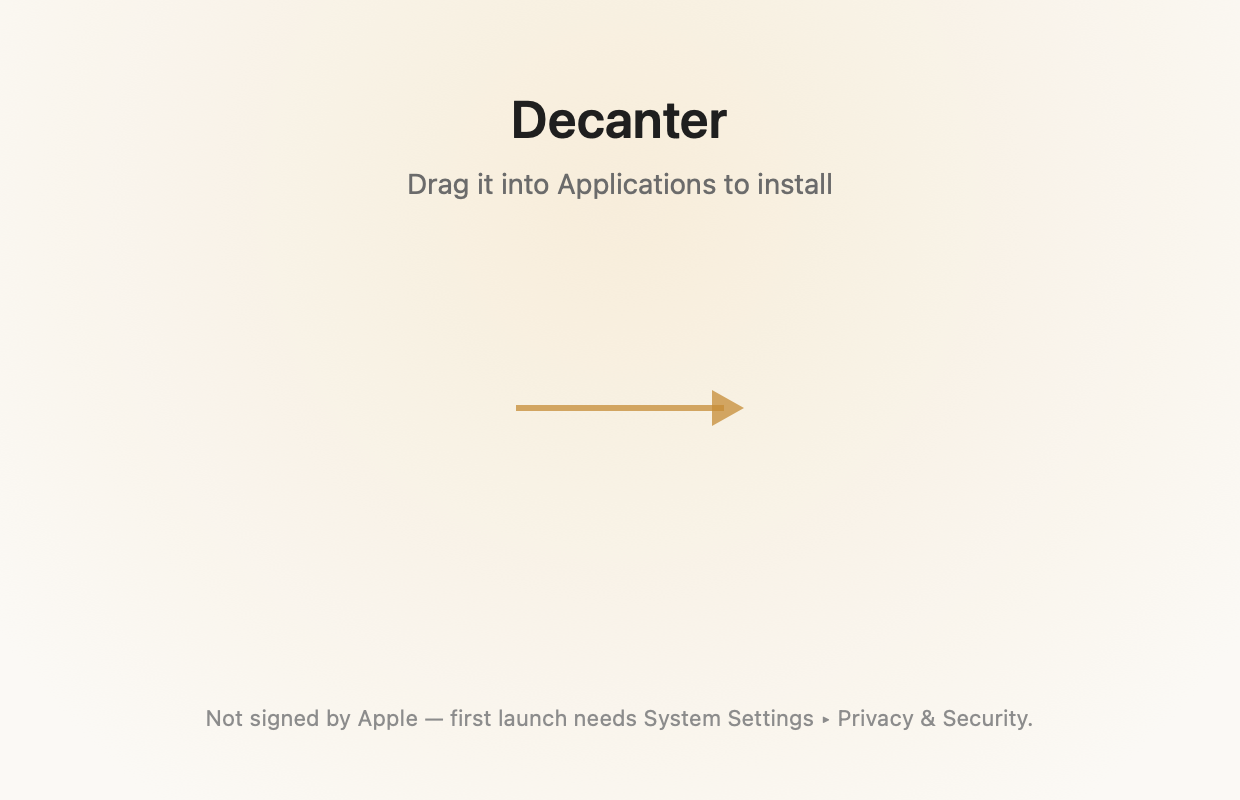
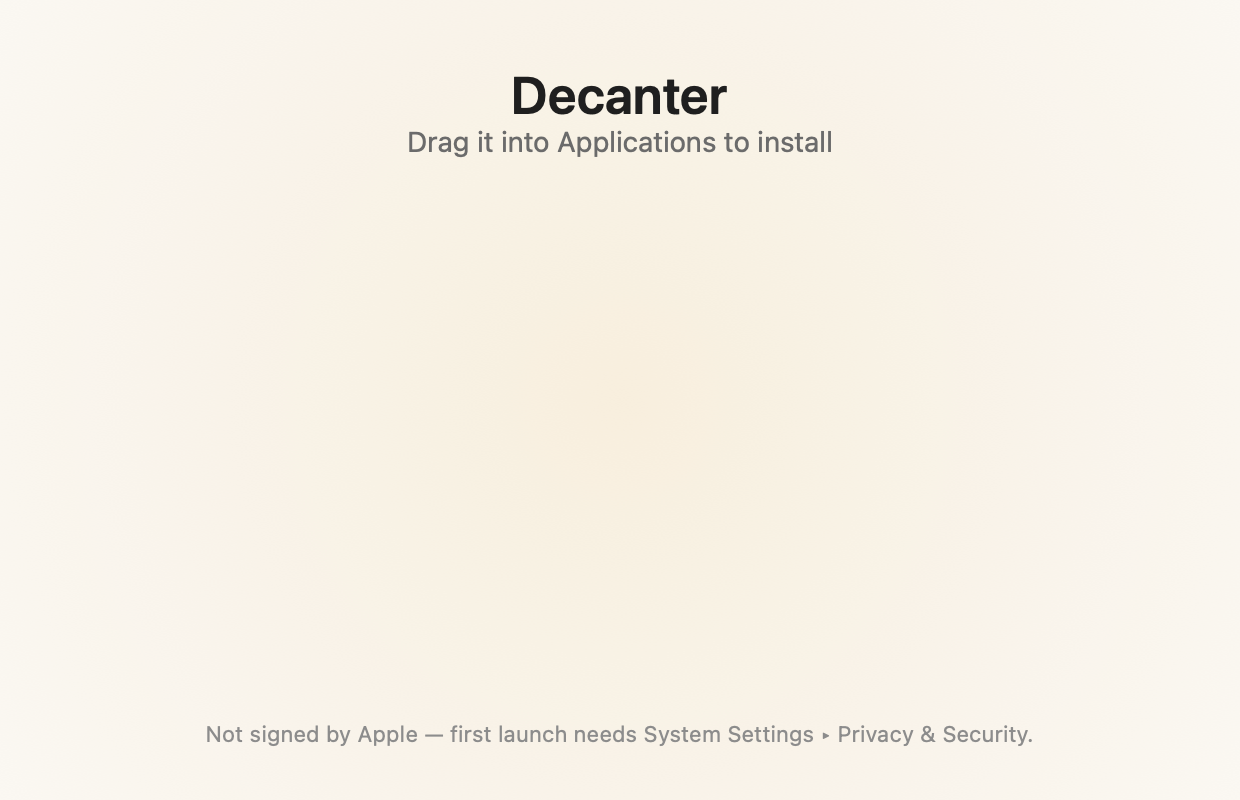
0.7.3 — a disk image that survives being opened in a tab
Finder scales a background picture to whatever size the window actually is.
The icon positions saved in .DS_Store are absolute points and do not scale
with it. The two agree only at the one size the image was laid out for, and
a disk image opened as a tab in an existing Finder window is never that
size — so the arrow drawn between the icons stretched away from them and the
Applications alias landed on top of the word "Drag".

The art is now anchored where it cannot collide. The icons sit between 157
and 275 points from the top, always, which across every window height Finder
produces covers 0.20 to 0.69 of the height; the title, the instruction and
the signing note all sit outside that. Verified by rendering the window the
way Finder draws it — background scaled, icons fixed — at three sizes.

Also: the hidden items are parked below the window rather than left in the
middle of the layout for anyone with hidden files shown, and the build now
checks the shipped .DS_Store bytes instead of asking Finder, which answered
from a per-volume-name cache and passed with the layout deliberately broken.

999 checks, 0 failed. All rules hold.

Changed region(s): [[0.1532, 0.875, 0.8274, 0.9375], [0.3065, 0.0938, 0.6742, 0.25], [0.3984, 0.5, 0.6129, 0.5312]]

diff --git a/Resources/dmgbg.swift b/Resources/dmgbg.swift
@@ -1,8 +1,27 @@
 import AppKit
 
-// Background for the disk-image window: an arrow from where the app sits to
-// where it should be dropped. Generated so it stays in step with the icon.
+// Background for the disk-image window.
+//
+// The rule that shapes this: **nothing may be drawn in the band the icons
+// occupy.** Finder scales a background picture to whatever size the window
+// actually is, and the icon positions saved in .DS_Store are absolute points
+// that do not scale with it. The two only agree at the one window size the
+// image was laid out for — and a disk image opened as a tab in an existing
+// Finder window is never that size. The first version had an arrow drawn
+// between the two icon positions and the words "Drag it into Applications"
+// across the middle; in a wide tab the art stretched, the icons stayed put,
+// and the Applications alias landed on top of the word "Drag".
+//
+// So the art is anchored where it cannot collide. Working in fractions of the
+// height, measured from the top, because that is how a scaled image behaves:
+// the icons sit between 157 and 275 points from the top, always, which across
+// the window heights Finder actually produces (400 when the saved bounds are
+// honoured, up to ~800 in a tab) covers the fraction range 0.20 to 0.69. Above
+// and below that is safe at every size; the middle is safe at exactly one.
 let W = 620.0, H = 400.0
+let titleTop = 0.080          // fraction of height, from the top
+let blurbTop = 0.155          // still clear of 0.20 at the tallest window
+let noteTop  = 0.900          // clear of 0.69 at every window
 let cs = CGColorSpaceCreateDeviceRGB()
 let ctx = CGContext(data: nil, width: Int(W * 2), height: Int(H * 2), bitsPerComponent: 8,
                     bytesPerRow: 0, space: cs,
@@ -12,47 +31,37 @@ ctx.setAllowsAntialiasing(true)
 
 ctx.setFillColor(CGColor(red: 0.98, green: 0.97, blue: 0.95, alpha: 1))
 ctx.fill(CGRect(x: 0, y: 0, width: W, height: H))
+// Centred on the window rather than on the old arrow, so it reads as a ground
+// rather than as a highlight pointing at something.
 let glow = CGGradient(colorsSpace: cs,
-                      colors: [CGColor(red: 0.85, green: 0.62, blue: 0.25, alpha: 0.16),
+                      colors: [CGColor(red: 0.85, green: 0.62, blue: 0.25, alpha: 0.14),
                                CGColor(red: 0.85, green: 0.62, blue: 0.25, alpha: 0.0)] as CFArray,
                       locations: [0, 1])!
-ctx.drawRadialGradient(glow, startCenter: CGPoint(x: W / 2, y: 300), startRadius: 0,
-                       endCenter: CGPoint(x: W / 2, y: 300), endRadius: 380,
+ctx.drawRadialGradient(glow, startCenter: CGPoint(x: W / 2, y: H / 2), startRadius: 0,
+                       endCenter: CGPoint(x: W / 2, y: H / 2), endRadius: 420,
                        options: [.drawsBeforeStartLocation])
 
 NSGraphicsContext.saveGraphicsState()
 NSGraphicsContext.current = NSGraphicsContext(cgContext: ctx, flipped: false)
 
-func text(_ s: String, _ f: NSFont, _ c: NSColor, x: Double, y: Double, centred: Bool = false) {
+/// `fromTop` is a fraction of the height, because that is the coordinate the
+/// collision rule above is written in. Converted here once.
+func text(_ s: String, _ f: NSFont, _ c: NSColor, fromTop: Double) {
     let attrs: [NSAttributedString.Key: Any] = [.font: f, .foregroundColor: c]
-    let w = (s as NSString).size(withAttributes: attrs).width
-    (s as NSString).draw(at: NSPoint(x: centred ? x - w / 2 : x, y: y), withAttributes: attrs)
+    let size = (s as NSString).size(withAttributes: attrs)
+    (s as NSString).draw(at: NSPoint(x: W / 2 - size.width / 2,
+                                     y: H - (fromTop * H) - size.height),
+                         withAttributes: attrs)
 }
 
 text("Decanter", .systemFont(ofSize: 26, weight: .semibold),
-     NSColor(white: 0.12, alpha: 1), x: W / 2, y: H - 74, centred: true)
+     NSColor(white: 0.12, alpha: 1), fromTop: titleTop)
 text("Drag it into Applications to install",
      .systemFont(ofSize: 14, weight: .regular),
-     NSColor(white: 0.42, alpha: 1), x: W / 2, y: H - 100, centred: true)
-
-// Arrow between the two icon positions the DMG window places below.
-let arrow = NSBezierPath()
-arrow.move(to: NSPoint(x: 258, y: 196))
-arrow.line(to: NSPoint(x: 362, y: 196))
-arrow.lineWidth = 3
-NSColor(calibratedRed: 0.72, green: 0.48, blue: 0.16, alpha: 0.75).setStroke()
-arrow.stroke()
-let head = NSBezierPath()
-head.move(to: NSPoint(x: 372, y: 196))
-head.line(to: NSPoint(x: 356, y: 205))
-head.line(to: NSPoint(x: 356, y: 187))
-head.close()
-NSColor(calibratedRed: 0.72, green: 0.48, blue: 0.16, alpha: 0.75).setFill()
-head.fill()
-
+     NSColor(white: 0.42, alpha: 1), fromTop: blurbTop)
 text("Not signed by Apple — first launch needs System Settings ▸ Privacy & Security.",
      .systemFont(ofSize: 11, weight: .regular),
-     NSColor(white: 0.55, alpha: 1), x: W / 2, y: 34, centred: true)
+     NSColor(white: 0.55, alpha: 1), fromTop: noteTop)
 
 NSGraphicsContext.restoreGraphicsState()
 let out = URL(fileURLWithPath: "Resources/dmg-background.png")

diff --git a/Sources/DecanterKit/Model.swift b/Sources/DecanterKit/Model.swift
@@ -478,8 +478,8 @@ public enum DecanterError: LocalizedError {
 /// tree was modified, which is the case a hash was ever for; "dev" outside a
 /// repository.
 public enum Build {
-    public static let version = "0.7.2"
-    public static let commit = ""
+    public static let version = "0.7.3"
+    public static let commit = "38ff435"
     /// A released build says its version and stops. The version is the whole
     /// of the attribution when the source it was built from is public and
     /// unmodified, and a hash there was worse than nothing: it named the commit

diff --git a/CHANGELOG.md b/CHANGELOG.md
@@ -1,5 +1,36 @@
 # Changelog
 
+## v0.7.3 — 2026-08-30
+
+The disk image, which is the first thing anybody sees and was the first thing
+that looked broken.
+
+- **Nothing is drawn in the band the icons occupy.** Finder scales a background
+  picture to whatever size the window actually is; the icon positions saved in
+  `.DS_Store` are absolute points and do not scale with it. The two agree only
+  at the one size the image was laid out for — and a disk image opened as a tab
+  in an existing Finder window is never that size. The old art had an arrow
+  drawn between the two icon positions and "Drag it into Applications" across
+  the middle, so in a wide tab the words stretched, the icons stayed put, and
+  the Applications alias landed on top of "Drag". The arrow is gone and the
+  text is anchored where it cannot collide: the icons sit between 157 and 275
+  points from the top, always, which across every window height Finder produces
+  covers 0.20 to 0.69 of the height. The title sits at 0.08, the instruction at
+  0.155, the signing note at 0.90. Checked by rendering the window the way
+  Finder draws it — background scaled, icons fixed — at 620x400, 1000x500 and
+  1200x660.
+- **`.background` and `.fseventsd` are parked below the window.** They carried
+  no saved position, so Finder dropped them at the top left of the layout —
+  invisible to most people, and sitting in the middle of the arrangement for
+  anyone with ⌘⇧. on.
+- **The build checks the layout it shipped, from the bytes.** The first version
+  of this check asked Finder to read the layout back, and it passed with the
+  layout deliberately broken: Finder caches icon-view state per volume *name*,
+  so a volume called "Decanter" is answered from whatever it learned last time
+  one was mounted, including from a window somebody resized by hand. It now
+  parses `.DS_Store` with no Finder in the loop, and was proved to fail by
+  moving an icon and watching it stop the build.
+
 ## v0.7.2 — 2026-08-30
 
 A game page that was working perfectly offered forty-odd things to do, across
